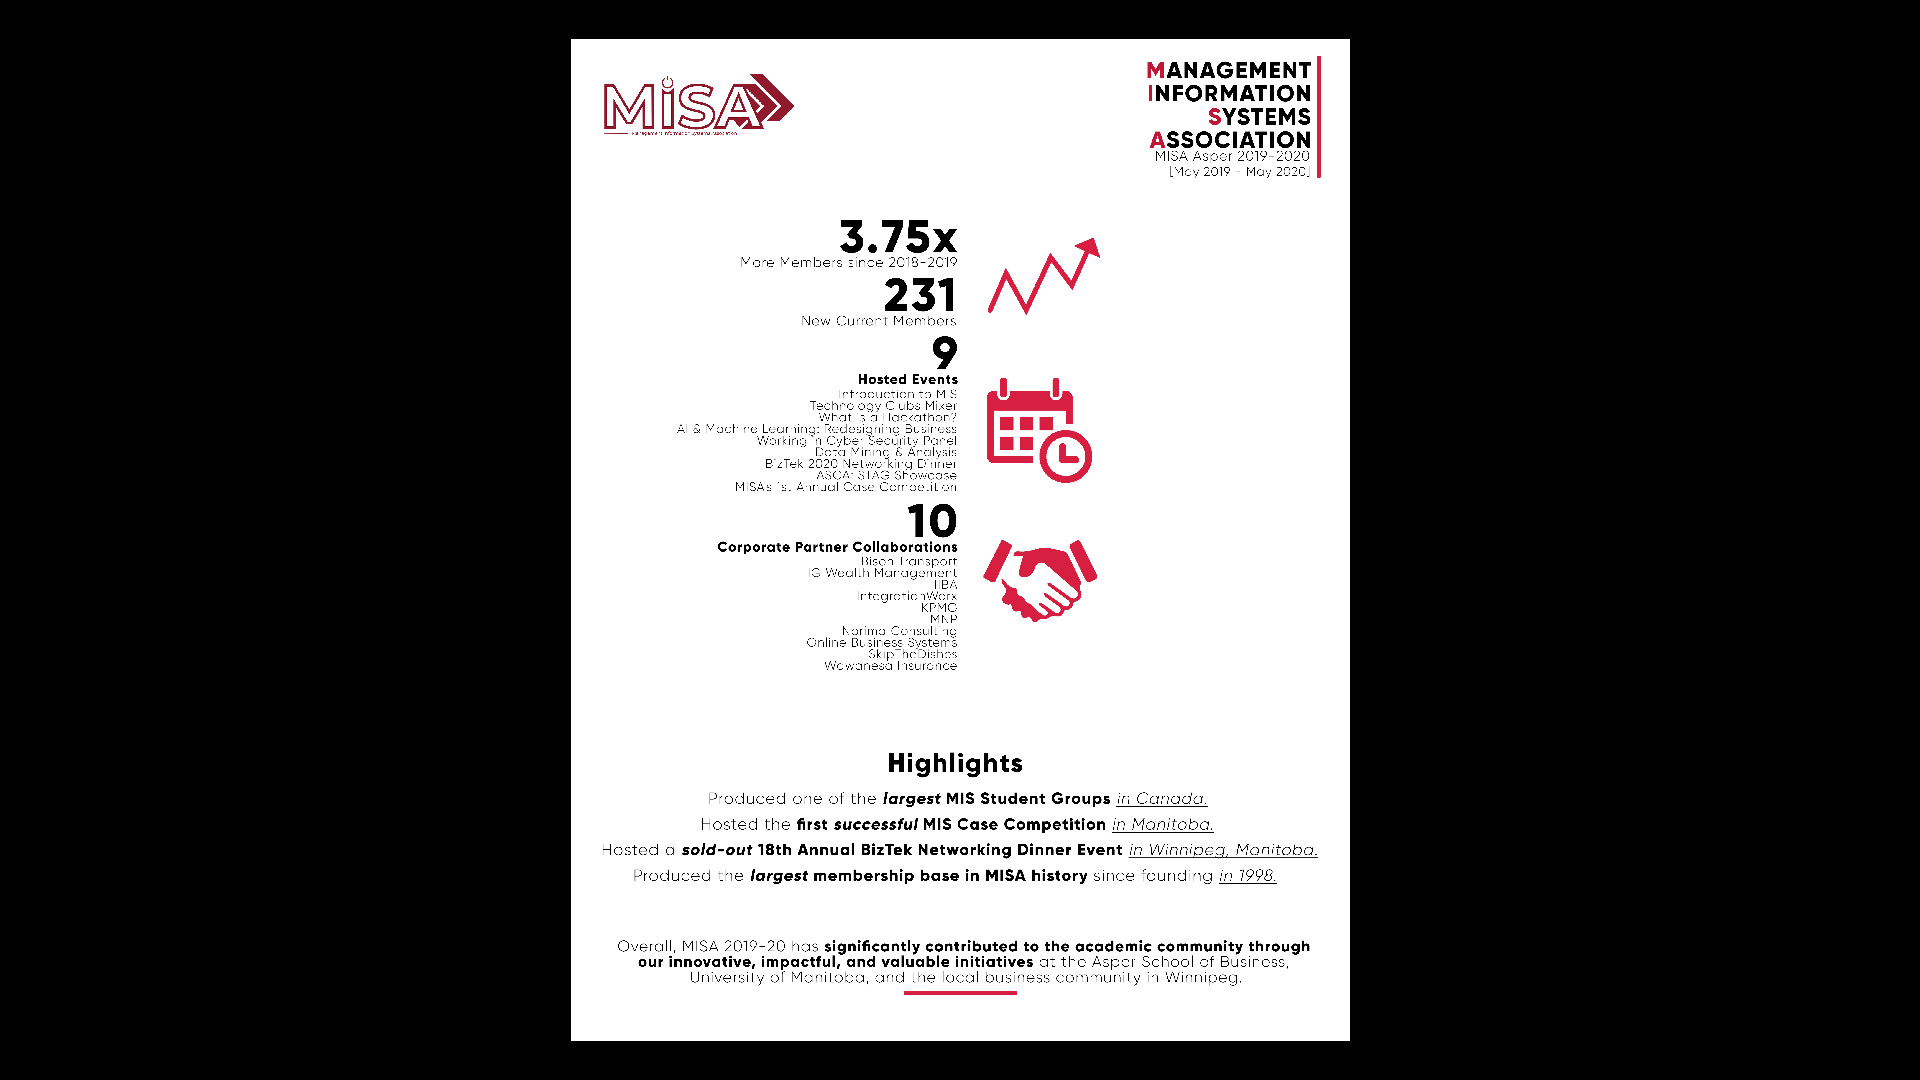
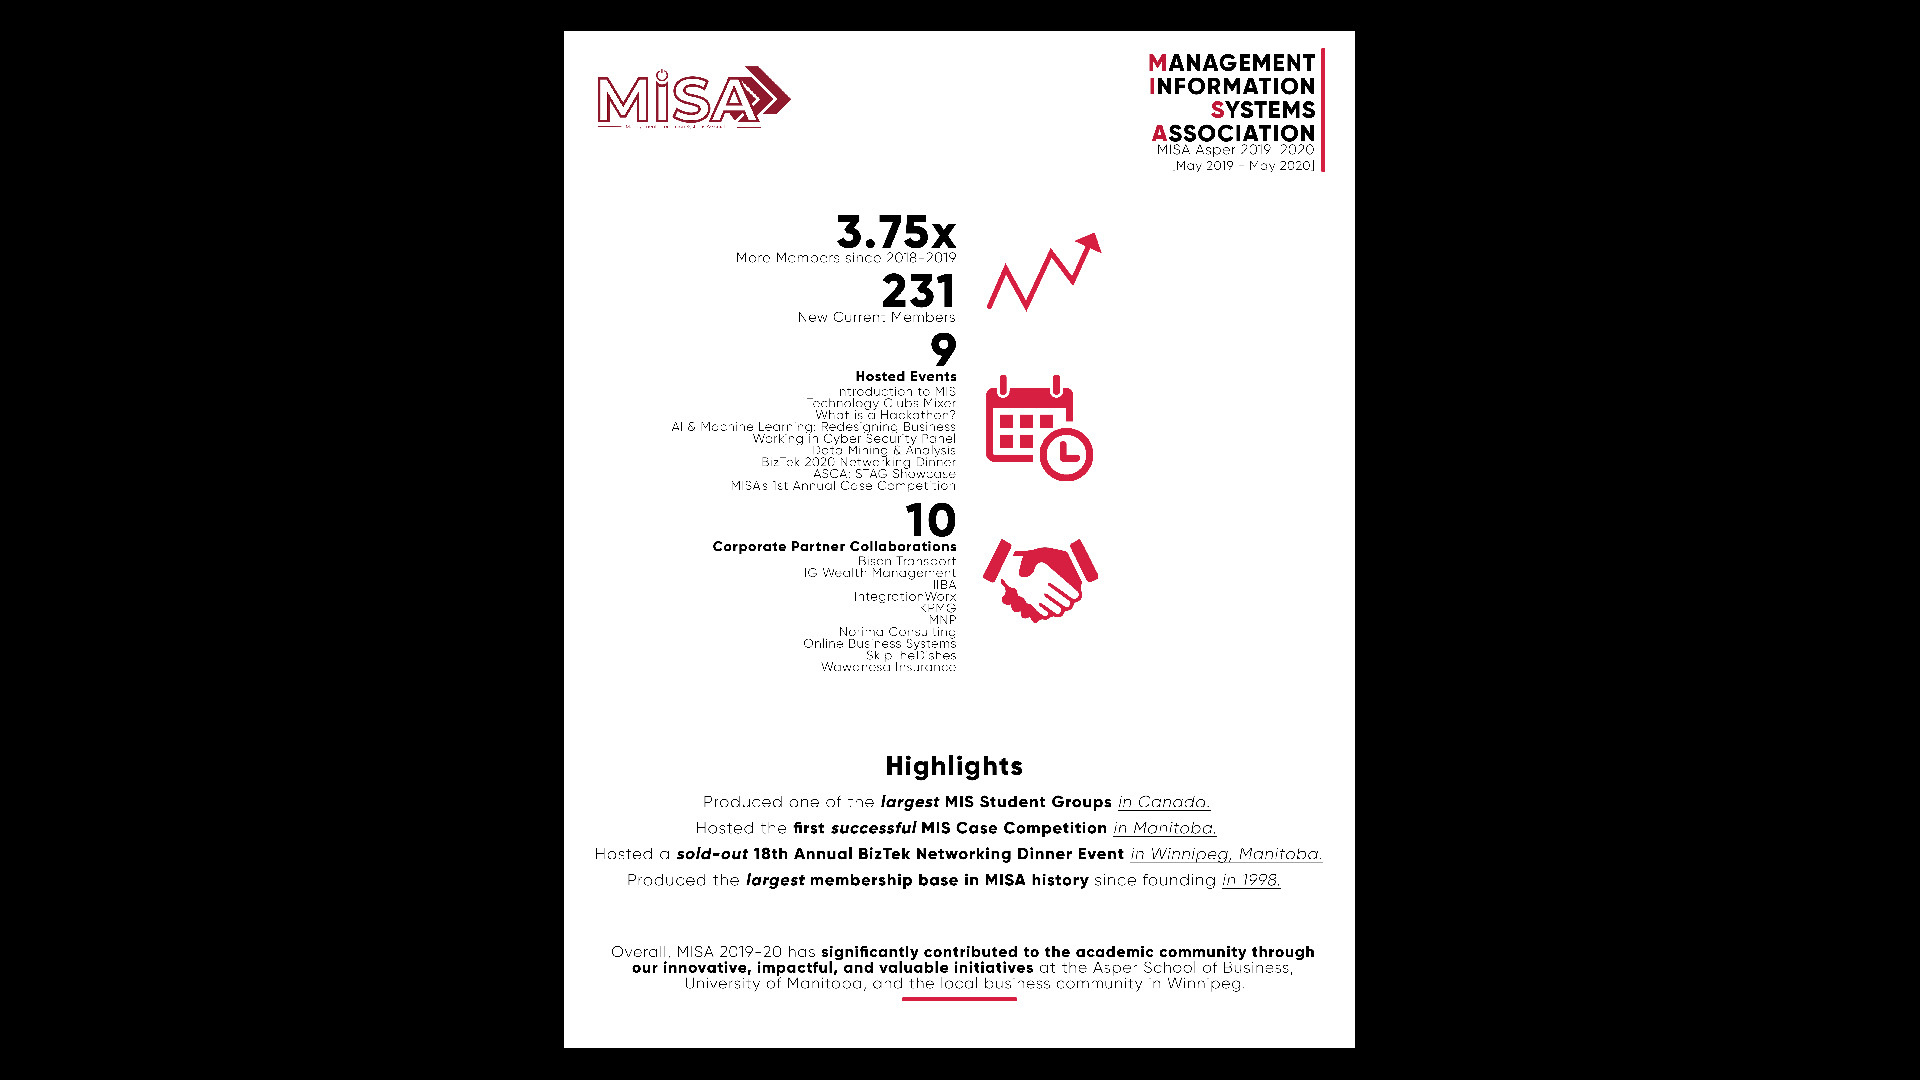
Update

Changed region(s): [[0.2812, 0.0306, 0.7188, 0.9778], [0.375, 0.1833, 0.5625, 0.6111], [0.5625, 0.2139, 0.5938, 0.2444]]

diff --git a/MISAHighlights.html b/MISAHighlights.html
@@ -26,7 +26,7 @@ p {
     background: #ffffff;
     color: rgb(0, 0, 0);
     font-size: 16px;
-    
+  
     top: 0;
     overflow: hidden;
     margin: 40px;
@@ -287,21 +287,18 @@ p.big {
    
 
     <div class="header2">
-        DATA SELFIES
+        MiSA Group Posters
    
     </div>
 
  
         <p class="big">
-            This is a project for a design class relating to the topic of “what is a data selfie? <br>
-       
-        
-        
-            The images within the posters are a collection of the media that I have consume in my daily life, some of them 
-            range from Youtube content, internet memes, some cursed images, window shopping and other various things.<br>
-            
-            The 
-            images are reflected onto my face in many different angles of my face, making it a literal data selfie. <br>
+            These are event or infomational posters to promote the various MISA’s (Management Infomation Systems Association) events throughout the year of 2019 - 2020. <br>
+
+The events range from top to bottom are “BizTek 2020,” “AI and Machine Learning: Redesigning Business,” “Asper CDC Explore 
+Careers in MIS.”  <br>
+
+            The posters in mind was designed with a touch of a more modern appeal to it compared it's former designs.
       
            
         </p>
@@ -313,15 +310,14 @@ p.big {
         
          <!-- Image One -->   
       
-        <img src="images/DATASELFIE_01.jpg" class="image" style="width:100%"> <br>
+        <img src="images/MISA_01.jpg" class="image" style="width:100%"> <br>
         
-        <img src="images/DATASELFIE_02.jpg" class="image" style="width:100%"> <br>
+        <img src="images/MISA_02.jpg" class="image" style="width:100%"> <br>
 
-        <img src="images/DATASELFIE_03.jpg" class="image" style="width:100%"> <br>
+        <img src="images/MISA_03.jpg" class="image" style="width:100%"> <br>
 
-        <img src="images/DATASELFIE_04.jpg" class="image" style="width:100%"> <br>
+        <img src="images/MISA_04.jpg" class="image" style="width:100%"> <br>
        
-        <img src="images/Project_01_Large.jpg" class="image" style="width:100%">
     
        
         </div>

diff --git a/MISAPOSTERS.html b/MISAPOSTERS.html
@@ -26,7 +26,7 @@ p {
     background: #ffffff;
     color: rgb(0, 0, 0);
     font-size: 16px;
-    
+  
     top: 0;
     overflow: hidden;
     margin: 40px;
@@ -287,21 +287,18 @@ p.big {
    
 
     <div class="header2">
-        DATA SELFIES
+        MiSA Group Posters
    
     </div>
 
  
         <p class="big">
-            This is a project for a design class relating to the topic of “what is a data selfie? <br>
-       
-        
-        
-            The images within the posters are a collection of the media that I have consume in my daily life, some of them 
-            range from Youtube content, internet memes, some cursed images, window shopping and other various things.<br>
-            
-            The 
-            images are reflected onto my face in many different angles of my face, making it a literal data selfie. <br>
+            These are event or infomational posters to promote the various MISA’s (Management Infomation Systems Association) events throughout the year of 2019 - 2020. <br>
+
+The events range from top to bottom are “BizTek 2020,” “AI and Machine Learning: Redesigning Business,” “Asper CDC Explore 
+Careers in MIS.”  <br>
+
+            The posters in mind was designed with a touch of a more modern appeal to it compared it's former designs.
       
            
         </p>
@@ -313,15 +310,14 @@ p.big {
         
          <!-- Image One -->   
       
-        <img src="images/DATASELFIE_01.jpg" class="image" style="width:100%"> <br>
+        <img src="images/MISA_01.jpg" class="image" style="width:100%"> <br>
         
-        <img src="images/DATASELFIE_02.jpg" class="image" style="width:100%"> <br>
+        <img src="images/MISA_02.jpg" class="image" style="width:100%"> <br>
 
-        <img src="images/DATASELFIE_03.jpg" class="image" style="width:100%"> <br>
+        <img src="images/MISA_03.jpg" class="image" style="width:100%"> <br>
 
-        <img src="images/DATASELFIE_04.jpg" class="image" style="width:100%"> <br>
+        <img src="images/MISA_04.jpg" class="image" style="width:100%"> <br>
        
-        <img src="images/Project_01_Large.jpg" class="image" style="width:100%">
     
        
         </div>

diff --git a/index.html b/index.html
@@ -243,7 +243,7 @@
     <div class="container">
     <img src="images/Project_02_GIF.jpg" class="image" style="width:100%">
     <div class="middle">
-    <div class="text"><a style="text-decoration:none"=" href="PROJECT01.html">MiSA Group Posters</a></div>
+    <div class="text"><a style="text-decoration:none"=" href="MISAPOSTERS.html">MiSA Group Posters</a></div>
         </div>
         </div>
 
@@ -252,7 +252,7 @@
     <div class="container">
         <img src="images/Project_02.jpg" class="image" style="width:100%">
         <div class="middle">
-            <div class="text"><a style="text-decoration:none"=" href="https://www.instagram.com/tryhardtran">MiSA Group Highlights</a></div>
+            <div class="text"><a style="text-decoration:none"=" href="MISAHighlights.html">MiSA Group Highlights</a></div>
             </div>
             </div>
 

diff --git a/ABOUTME.html b/ABOUTME.html
@@ -287,6 +287,7 @@ p.big {
 
     <div class="header2">
         ABOUT ME
+        
    
     </div>
   
